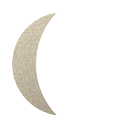
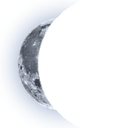
feat(botc): moon phases cut from the supplied moon with a glow, coin lab (four coins, live swap), team ring follows each coin's own face, smaller seats; fix: the build panel returns for a town that was dealt in before (FT-854)

Changed region(s): [[0.0625, 0.0625, 0.5312, 0.9375]]

diff --git a/src/App.vue b/src/App.vue
@@ -44,6 +44,25 @@
         <template v-else>{{ d.letter }}</template>
       </span>
     </div>
+    <!-- the COIN LAB (Co): swap the seats' coin art live (user call
+         2026-08-18). The choice rides CSS variables, so it is a repaint. -->
+    <div id="coin-lab" :class="{ open: coinLabOpen }">
+      <div class="fd-toggle" title="Coin lab" @click="coinLabOpen = !coinLabOpen">
+        Co
+      </div>
+      <div class="co-rows" v-if="coinLabOpen">
+        <button
+          v-for="c in coinOptions"
+          :key="c.id"
+          class="co-pick"
+          :class="{ on: coinPick.id === c.id }"
+          @click="pickCoin(c.id)"
+        >
+          <img :src="coinThumb(c.id)" alt="" />
+          {{ c.label }}
+        </button>
+      </div>
+    </div>
     <!-- the FONT LAB: the dev dropdown that owns every lettering choice -->
     <!-- the DRIP LAB (Dr): the user's own dials for the blood scrollbar -->
     <div id="drip-lab" :class="{ open: drOpen }" v-if="devLabs">
@@ -281,6 +300,8 @@ import grimoireOpen from "./assets/grimoire-open.png";
 // The Pandemonium Institute's own mark, worn by the footer credit that links
 // to their store — their game, their branding, unaltered.
 import tpiLogo from "./assets/tpi-logo.png";
+import { COINS, coinChoice, applyCoin } from "./golem/coinArt";
+const coinThumbs = require.context("./assets/coins", false, /.png$/);
 import Intro from "./components/Intro";
 import ReferenceModal from "./components/modals/ReferenceModal";
 import Vote from "./components/Vote";
@@ -354,12 +375,17 @@ export default {
     // clears it, so gating on it brought the build panel back mid-game a
     // couple of seconds after Start (user report 2026-08-18).
     showHostTools() {
-      return (
-        !!this.session.sessionId &&
-        !this.session.isSpectator &&
-        !this.dealAt &&
-        !this.session.isRolesDistributed
-      );
+      if (!this.session.sessionId || this.session.isSpectator) return false;
+      if (this.session.isRolesDistributed) return false;
+      // A town REMEMBERS having been dealt in (dealAt), which is what stops
+      // the panel returning two seconds after Start. But that marker outlives
+      // the game: re-hosting the same town later showed the live square with
+      // nobody in it and no way back to setup (user report 2026-08-18). A town
+      // whose chairs are not all cast is being BUILT, whatever it remembers.
+      const cast =
+        this.players.length > 0 &&
+        this.players.every(p => p.role && p.role.id);
+      return !this.dealAt || !cast;
     }
   },
   // Golem fork: THE BOOT GATE — the ordering the user asked for, literally:
@@ -435,6 +461,9 @@ export default {
       grimoireClosed,
       grimoireOpen,
       tpiLogo,
+      coinLabOpen: false,
+      coinOptions: COINS,
+      coinPick: coinChoice,
       // the drip lab
       drOpen: false,
       dripRef: dripKnobs,
@@ -474,6 +503,13 @@ export default {
     };
   },
   methods: {
+    /** the coin lab: swap every seat's coin art, and remember it */
+    pickCoin(id) {
+      applyCoin(id);
+    },
+    coinThumb(id) {
+      return coinThumbs("./" + id + ".png");
+    },
     // FT-852: arm on the first click, leave on the second — no native
     // confirm() anywhere in the pill (see the template note).
     // ── the drip lab ────────────────────────────────────────────────────
@@ -1007,6 +1043,48 @@ video#background {
   --dfpx: min(var(--fpx), 0.145vmin);
 }
 // the DRIP LAB — top-left, the user's own scrollbar dials
+#coin-lab {
+  position: fixed;
+  top: 96px;
+  left: 0;
+  z-index: 60;
+  display: flex;
+  align-items: flex-start;
+
+  .co-rows {
+    display: flex;
+    flex-direction: column;
+    gap: 4px;
+    padding: 6px;
+    background: rgba(8, 6, 10, 0.92);
+    border: 1px solid rgba(120, 105, 135, 0.45);
+    border-left: none;
+    border-radius: 0 8px 8px 0;
+  }
+  .co-pick {
+    display: flex;
+    align-items: center;
+    gap: 7px;
+    padding: 3px 8px 3px 3px;
+    font-family: inherit;
+    font-size: 12px;
+    color: #d8cdb4;
+    background: rgba(20, 16, 22, 0.9);
+    border: 1px solid rgba(120, 105, 135, 0.4);
+    border-radius: 5px;
+    cursor: pointer;
+    img {
+      width: 26px;
+      height: 26px;
+      object-fit: contain;
+    }
+    &.on {
+      color: #fff;
+      border-color: rgba(200, 170, 90, 0.9);
+    }
+  }
+}
+
 #drip-lab {
   position: fixed;
   top: 8px;

diff --git a/src/golem/coinArt.js b/src/golem/coinArt.js
@@ -1,0 +1,54 @@
+// Golem fork: WHICH COIN the seats wear (user call 2026-08-18 — "make a debug
+// area for changing the player coins").
+//
+// The choice is published as CSS custom properties on the document root, so
+// swapping is a repaint: Token and the seat's life face both read var(--coin)
+// / var(--coin-dead) rather than importing one file. Persisted per browser.
+import Vue from "vue";
+
+const req = require.context("../assets/coins", false, /\.png$/);
+const art = id => req("./" + id + ".png");
+
+//  is where each coin's parchment ends, as a fraction of its radius —
+// measured off the baked art, not guessed. The team ring rides just inside it,
+// so switching coins moves the ring with them.
+export const COINS = [
+  { id: "coin4", label: "Coin 4", face: 0.947 },
+  { id: "coin3", label: "Coin 3", face: 0.951 },
+  { id: "player2", label: "Player 2", face: 0.961 },
+  { id: "player1", label: "Player 1", face: 0.971 }
+];
+
+const KEY = "golem.coin";
+let stored = null;
+try {
+  stored = localStorage.getItem(KEY);
+} catch (e) {
+  stored = null;
+}
+if (!COINS.some(c => c.id === stored)) stored = COINS[0].id;
+
+export const coinChoice = Vue.observable({ id: stored });
+
+/** Paint the choice onto the root so every coin surface follows it. */
+export function applyCoin(id) {
+  const pick = COINS.some(c => c.id === id) ? id : COINS[0].id;
+  coinChoice.id = pick;
+  const root = document.documentElement;
+  root.style.setProperty("--coin", `url(${art(pick)})`);
+  root.style.setProperty("--coin-dead", `url(${art(pick + "-dead")})`);
+  // the ring: a band just inside this coin's own face edge
+  const face = (COINS.find(c => c.id === pick) || {}).face || 0.95;
+  const pct = f => (f * 100).toFixed(1) + "%";
+  root.style.setProperty("--ring-in", pct(face - 0.075));
+  root.style.setProperty("--ring-a", pct(face - 0.055));
+  root.style.setProperty("--ring-b", pct(face - 0.02));
+  root.style.setProperty("--ring-out", pct(face));
+  try {
+    localStorage.setItem(KEY, pick);
+  } catch (e) {
+    // a browser with storage off still gets the swap for this session
+  }
+}
+
+applyCoin(stored);

diff --git a/src/components/Token.vue b/src/components/Token.vue
@@ -351,8 +351,8 @@ $blood: #970000; // our red, for the one mark that must not be missed
   // the NEXT tile's top edge just below this one — the "melting" rim, the
   // stray red nub and the thing peeking from behind the disc were all one
   // bug (user diagnosis 2026-08-18)
-  background: url("../assets/token-golem.png") center center / contain
-    no-repeat;
+  background: var(--coin, url("../assets/token-golem.png")) center center /
+      contain no-repeat;
   text-align: center;
   // The border stays — the bluffs collapse zeroes its width and the "you"
   // seat's glow animates its colour — but it goes transparent at rest: a
@@ -413,10 +413,10 @@ $blood: #970000; // our red, for the one mark that must not be missed
   @mixin team-ring($color) {
     background: radial-gradient(
       circle closest-side,
-      transparent 0 87.5%,
-      rgba($color, 0.55) 89%,
-      rgba($color, 0.55) 92%,
-      transparent 93.5%
+      transparent 0 var(--ring-in, 87.5%),
+      rgba($color, 0.55) var(--ring-a, 89%),
+      rgba($color, 0.55) var(--ring-b, 92%),
+      transparent var(--ring-out, 93.5%)
     );
   }
 
@@ -543,6 +543,6 @@ $blood: #970000; // our red, for the one mark that must not be missed
 // shrouds. `.player` lives in Player.vue; the coin is this component's root,
 // which is what scoping keys off.
 .player.dead .token {
-  background-image: url("../assets/token-golem-dead.png");
+  background-image: var(--coin-dead, url("../assets/token-golem-dead.png"));
 }
 </style>

diff --git a/src/components/Player.vue b/src/components/Player.vue
@@ -364,14 +364,17 @@ export default {
     },
     zoom: function() {
       const unit = window.innerWidth > window.innerHeight ? "vh" : "vw";
+      // Smaller across the board (user call 2026-08-18) — the coins were
+      // crowding the dial; the ring reads better with air between the seats
+      // and the clock face behind them.
       if (this.players.length < 7) {
-        return { width: 18 + this.grimoire.zoom + unit };
+        return { width: 15.5 + this.grimoire.zoom + unit };
       } else if (this.players.length <= 10) {
-        return { width: 16 + this.grimoire.zoom + unit };
+        return { width: 13.5 + this.grimoire.zoom + unit };
       } else if (this.players.length <= 15) {
-        return { width: 14 + this.grimoire.zoom + unit };
-      } else {
         return { width: 12 + this.grimoire.zoom + unit };
+      } else {
+        return { width: 10.5 + this.grimoire.zoom + unit };
       }
     }
   },
@@ -871,7 +874,7 @@ export default {
     .life {
       // Golem fork: our shroud disc (upstream death.png stays untouched)
       // the dead plate is the same coin, drained and cooled
-      background-image: url("../assets/token-golem-dead.png");
+      background-image: var(--coin-dead, url("../assets/token-golem-dead.png"));
 
       &:after {
         content: " ";
